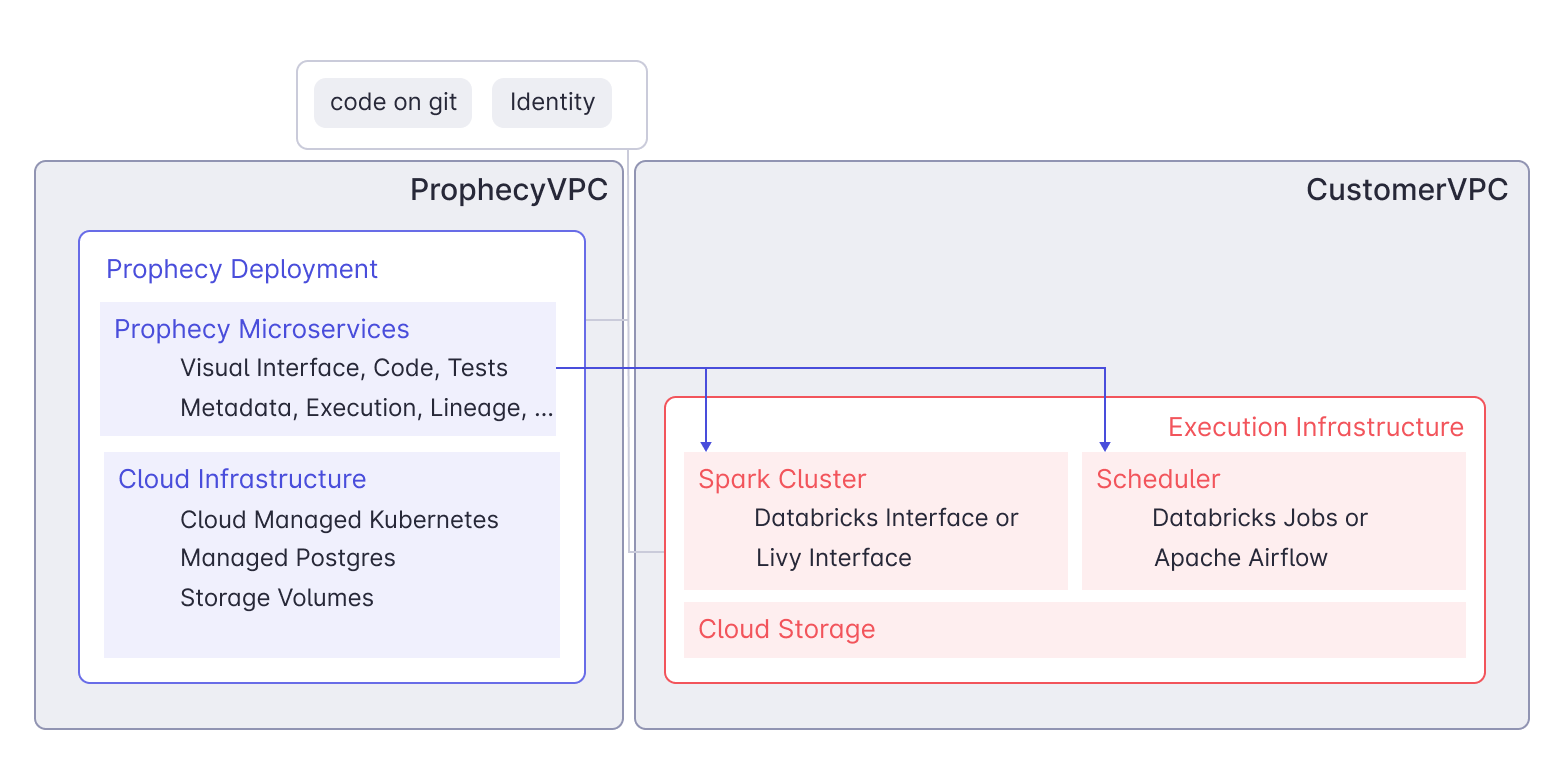
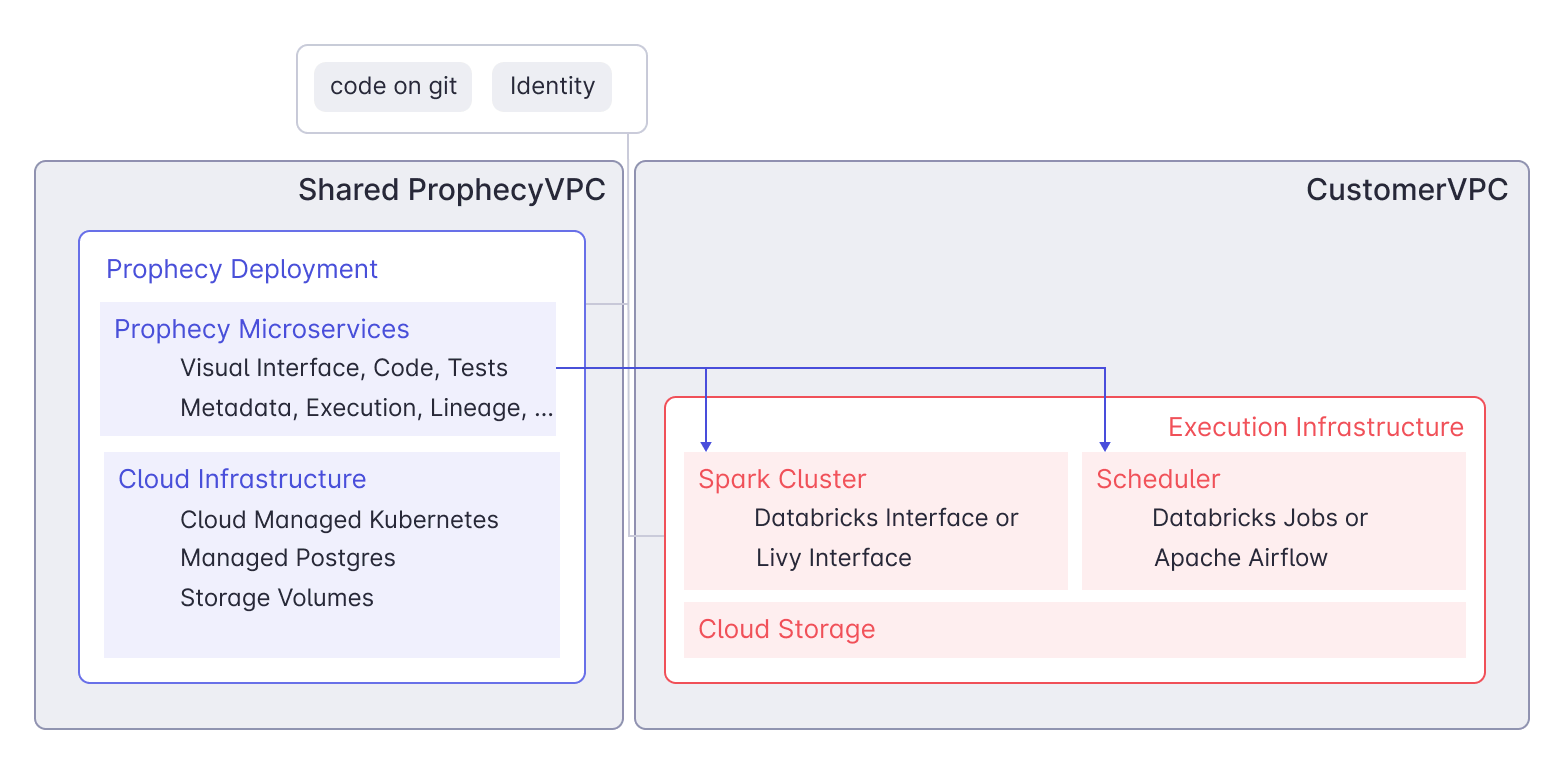
add deployment architecture images

diff --git a/docs/administration/deployment.md b/docs/administration/deployment.md
@@ -31,13 +31,15 @@ Prophecy in the cloud connects to your existing Spark and Scheduler/Orchestrator
 
 The SaaS deployment option is entirely Prophecy-managed and has a multi-tenant architecture. Try out SaaS by directly going to the [Prophecy application](https://app.prophecy.io/).
 
-![VPC Architecture](img/arch_separate_vpc.png)
+![SaaS VPC Architecture](img/arch_separate_vpc.png)
 
 ### Dedicated SaaS
 
 Like our SaaS deployment, the Dedicated SaaS deployment is Prophecy-managed. However, Dedicated SaaS provides the convenience of a Prophecy-managed environment, but also the privacy of an isolated space on Prophecy’s Virtual Private Cloud. This is also known as a single-tenant architecture.
 
 You can choose your preferred cloud platform (AWS, Azure, or GCP), and Prophecy will manage installation, maintenance, resource allocation, and more.
+
+![Dedicated SaaS VPC Architecture](img/arch_dedicated_vpc.png)
 
 ### Self Hosted (formerly Private SaaS) {#self-hosted}
 
